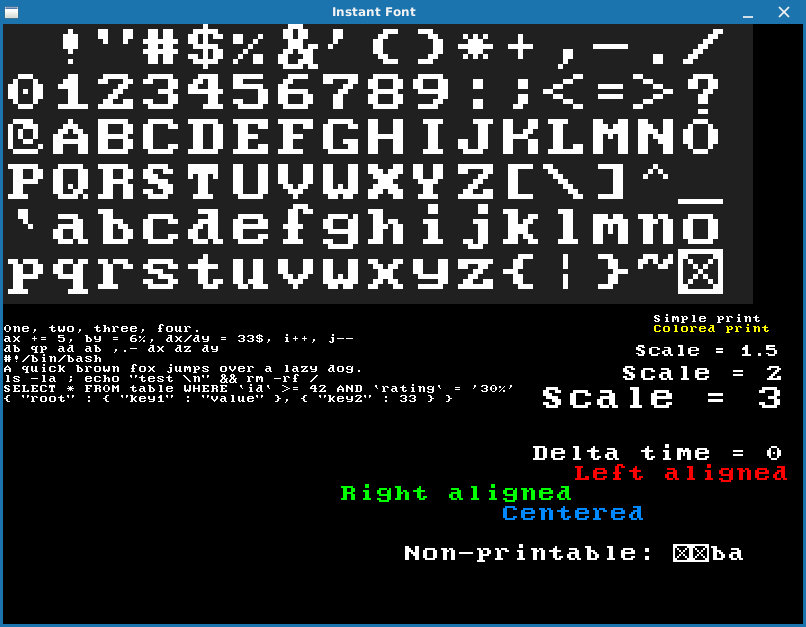
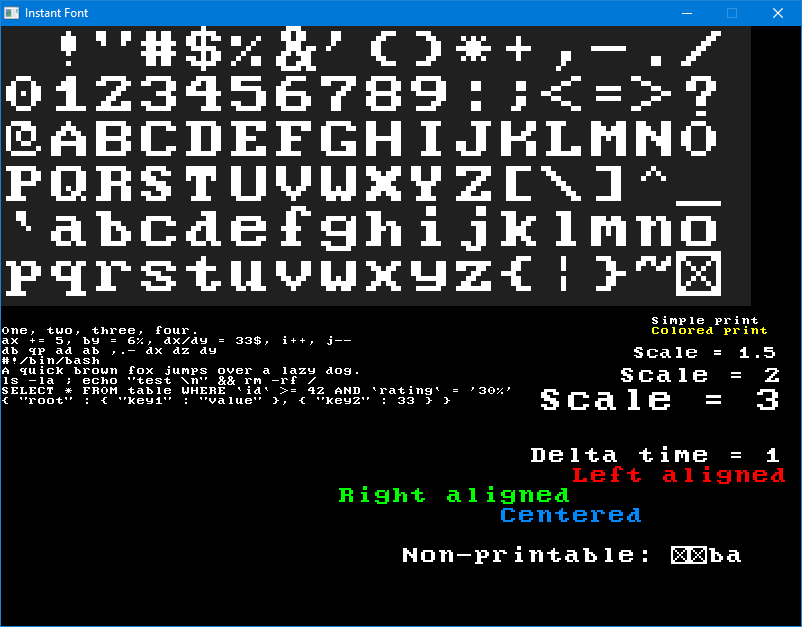
fixed letter d

diff --git a/instant-font.h b/instant-font.h
@@ -414,7 +414,7 @@ class IF
       { 0, 0, 60, 96, 124, 102, 102, 220, 0 },
       { 0, 14, 12, 60, 108, 204, 204, 124, 0 },
       { 0, 0, 124, 198, 6, 6, 198, 124, 0 },
-      { 0, 120, 96, 120, 108, 102, 102, 220, 0 },
+      { 0, 112, 96, 120, 108, 102, 102, 220, 0 },
       { 0, 0, 124, 198, 254, 6, 198, 124, 0 },
       { 112, 216, 24, 24, 60, 24, 24, 60, 0 },
       { 0, 0, 188, 198, 198, 252, 192, 198, 124 },

diff --git a/glyphs-to-cpp.py b/glyphs-to-cpp.py
@@ -759,7 +759,7 @@ Glyphs = [
   ],
   [
     ".........",
-    "...####..",
+    "....###..",
     ".....##..",
     "...####..",
     "..##.##..",
